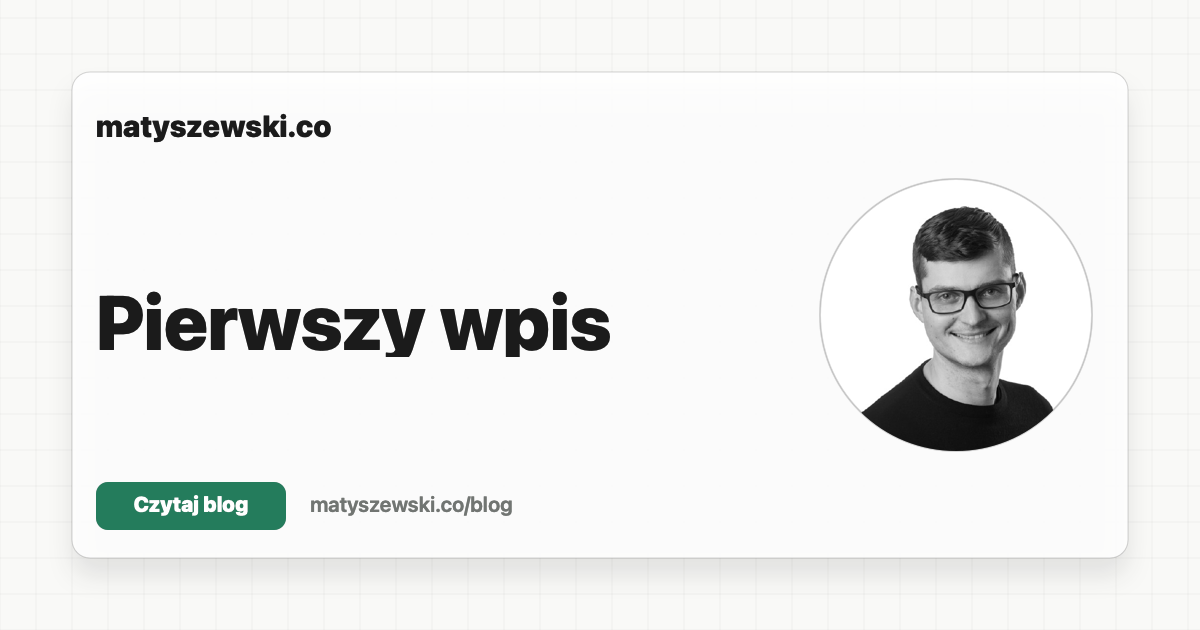
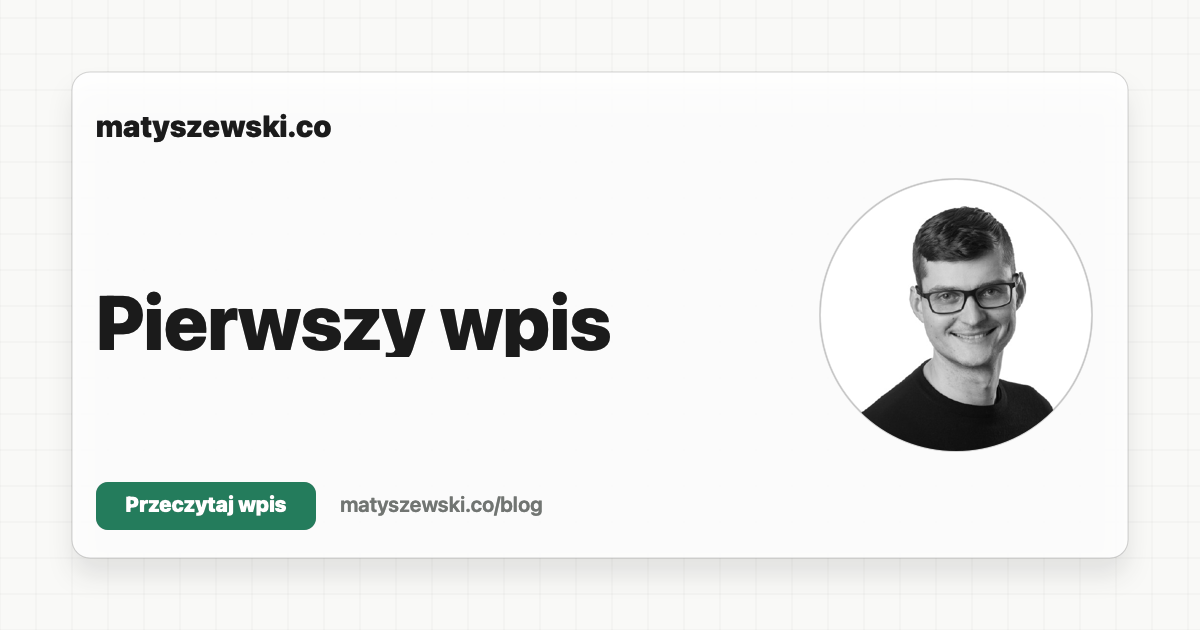
Poprawa metadanych i kart Open Graph bloga
## Nowe pliki:
- Brak.

## Zmodyfikowane:
- Generator bloga - dodano krótkie tytuły metadanych, limit 60 znaków, nazwę witryny i wyraźniejsze CTA.
- Wpis o logowaniu Codex do GitHuba - skrócono tytuły SEO/OG/X i odświeżono kartę 1200x630.
- Indeks bloga i pierwszy wpis - dodano nazwę witryny oraz odświeżono wygenerowane karty.

## Usunięte:
- Brak.

Statystyki: +0 nowych, ~9 zmodyfikowanych, -0 usuniętych

Changed region(s): [[0.0925, 0.754, 0.4625, 0.8444]]

diff --git a/scripts/generate-blog-preview.swift b/scripts/generate-blog-preview.swift
@@ -4,6 +4,7 @@ import Foundation
 struct Post: Decodable {
     let slug: String
     let title: String
+    let metaTitle: String?
     let description: String
     let date: String
     let tags: [String]?
@@ -264,7 +265,8 @@ func generateSocialCard(
     outputBaseName: String,
     footerUrl: String,
     label: String? = "BLOG",
-    showsSubtitle: Bool = true
+    showsSubtitle: Bool = true,
+    ctaText: String = "Czytaj blog"
 ) throws {
     let lines = titleLines(title)
     let fontSize = lines.count >= 3 ? 54 : (lines.count == 2 ? 68 : 76)
@@ -276,6 +278,9 @@ func generateSocialCard(
     }
     let lineSpacing = lines.count >= 3 ? 62 : 80
     let ctaTop = showsSubtitle ? 492 : 482
+    let ctaWidth = ctaText == "Czytaj blog" ? 190 : 220
+    let ctaTextX = 96 + (ctaWidth / 2)
+    let footerTextX = 96 + ctaWidth + 24
     let subtitle = showsSubtitle ? shortDescription(description) : nil
     let profileImageName = "robert-matyszewski-profile.png"
 
@@ -302,9 +307,9 @@ func generateSocialCard(
 \(label.map { ##"  <text x="96" y="236" fill="#1f6b4a" font-family="Inter, Arial, sans-serif" font-size="26" font-weight="800" letter-spacing="3">\##(escapeHtml($0))</text>"## } ?? "")
 \(svgTextLines(lines, fontSize: fontSize, top: firstTextTop, spacing: lineSpacing))
 \(subtitle.map { ##"  <text x="96" y="466" fill="#303330" font-family="Inter, Arial, sans-serif" font-size="24" font-weight="600">\##(escapeHtml($0))</text>"## } ?? "")
-  <rect x="96" y="\(ctaTop)" width="190" height="48" rx="12" fill="#1f6b4a"/>
-  <text x="191" y="\(ctaTop + 31)" fill="#ffffff" font-family="Inter, Arial, sans-serif" font-size="21" font-weight="800" text-anchor="middle">Czytaj blog</text>
-  <text x="310" y="\(ctaTop + 31)" fill="#5e625f" font-family="Inter, Arial, sans-serif" font-size="21" font-weight="600">\(escapeHtml(footerUrl))</text>
+  <rect x="96" y="\(ctaTop)" width="\(ctaWidth)" height="48" rx="12" fill="#1f6b4a"/>
+  <text x="\(ctaTextX)" y="\(ctaTop + 31)" fill="#ffffff" font-family="Inter, Arial, sans-serif" font-size="21" font-weight="800" text-anchor="middle">\(escapeHtml(ctaText))</text>
+  <text x="\(footerTextX)" y="\(ctaTop + 31)" fill="#5e625f" font-family="Inter, Arial, sans-serif" font-size="21" font-weight="600">\(escapeHtml(footerUrl))</text>
 </svg>
 """
 
@@ -318,6 +323,8 @@ func generateSocialCard(
         firstTextTop: CGFloat(firstTextTop),
         lineSpacing: CGFloat(lineSpacing),
         ctaTop: CGFloat(ctaTop),
+        ctaText: ctaText,
+        ctaWidth: CGFloat(ctaWidth),
         profileImage: socialDir.appendingPathComponent(profileImageName),
         output: socialDir.appendingPathComponent("\(outputBaseName).png")
     )
@@ -341,6 +348,8 @@ func renderPngCard(
     firstTextTop: CGFloat,
     lineSpacing: CGFloat,
     ctaTop: CGFloat,
+    ctaText: String,
+    ctaWidth: CGFloat,
     profileImage: URL,
     output: URL
 ) throws {
@@ -462,14 +471,14 @@ func renderPngCard(
     }
 
     let cta = NSBezierPath(
-        roundedRect: NSRect(x: 96, y: topY(ctaTop, 48), width: 190, height: 48),
+        roundedRect: NSRect(x: 96, y: topY(ctaTop, 48), width: ctaWidth, height: 48),
         xRadius: 12,
         yRadius: 12
     )
     color(0x1f6b4a).setFill()
     cta.fill()
-    drawText("Czytaj blog", x: 96, top: ctaTop + 10, w: 190, h: 28, size: 21, weight: .heavy, fill: color(0xffffff), alignment: .center)
-    drawText(footerUrl, x: 310, top: ctaTop + 10, w: 470, h: 28, size: 21, weight: .semibold, fill: color(0x5e625f))
+    drawText(ctaText, x: 96, top: ctaTop + 10, w: ctaWidth, h: 28, size: 21, weight: .heavy, fill: color(0xffffff), alignment: .center)
+    drawText(footerUrl, x: 96 + ctaWidth + 24, top: ctaTop + 10, w: 470, h: 28, size: 21, weight: .semibold, fill: color(0x5e625f))
 
     NSGraphicsContext.restoreGraphicsState()
 
@@ -490,6 +499,15 @@ func renderTags(_ tags: [String]?) -> String {
             \(tags.map { "<li>\(escapeHtml($0))</li>" }.joined(separator: "\n            "))
           </ul>
 """
+}
+
+func metadataTitle(for post: Post) -> String {
+    if let metaTitle = post.metaTitle {
+        return metaTitle
+    }
+
+    let brandedTitle = "\(post.title) - Blog Roberta Matyszewskiego"
+    return brandedTitle.count <= 60 ? brandedTitle : post.title
 }
 
 func syncNavigation() throws {
@@ -524,7 +542,7 @@ func renderPostPage(post: Post, markdown: String) throws {
     let postDir = root.appendingPathComponent("blog/\(post.slug)", isDirectory: true)
     try FileManager.default.createDirectory(at: postDir, withIntermediateDirectories: true)
 
-    let title = "\(post.title) - Blog Roberta Matyszewskiego"
+    let metaTitle = metadataTitle(for: post)
     let postUrl = "\(siteOrigin)/blog/\(post.slug)/"
     let imageUrl = "\(siteOrigin)/blog/assets/social/\(post.slug).png"
     let contentHtml = markdownToHtml(markdown, resourcePrefix: "../")
@@ -534,11 +552,12 @@ func renderPostPage(post: Post, markdown: String) throws {
   <head>
     <meta charset="utf-8">
     <meta name="viewport" content="width=device-width, initial-scale=1">
-    <title>\(escapeHtml(title))</title>
-    <meta name="title" content="\(escapeHtml(title))">
+    <title>\(escapeHtml(metaTitle))</title>
+    <meta name="title" content="\(escapeHtml(metaTitle))">
     <meta name="description" content="\(escapeHtml(post.description))">
-    <meta property="og:title" content="\(escapeHtml(title))">
+    <meta property="og:title" content="\(escapeHtml(metaTitle))">
     <meta property="og:description" content="\(escapeHtml(post.description))">
+    <meta property="og:site_name" content="Robert Matyszewski">
     <meta property="og:type" content="article">
     <meta property="og:url" content="\(postUrl)">
     <meta property="og:image" content="\(imageUrl)">
@@ -546,7 +565,7 @@ func renderPostPage(post: Post, markdown: String) throws {
     <meta property="og:image:height" content="630">
     <meta property="og:image:alt" content="\(escapeHtml(post.title))">
     <meta name="twitter:card" content="summary_large_image">
-    <meta name="twitter:title" content="\(escapeHtml(title))">
+    <meta name="twitter:title" content="\(escapeHtml(metaTitle))">
     <meta name="twitter:description" content="\(escapeHtml(post.description))">
     <meta name="twitter:image" content="\(imageUrl)">
     <meta name="twitter:image:alt" content="\(escapeHtml(post.title))">
@@ -604,12 +623,13 @@ try generateSocialCard(title: blogTitle, description: blogDescription, outputBas
 for post in posts {
     let markdown = try String(contentsOf: postsDir.appendingPathComponent(post.file), encoding: .utf8)
     try generateSocialCard(
-        title: post.title,
+        title: post.metaTitle ?? post.title,
         description: post.description,
         outputBaseName: post.slug,
         footerUrl: "matyszewski.co/blog",
         label: nil,
-        showsSubtitle: false
+        showsSubtitle: false,
+        ctaText: "Przeczytaj wpis"
     )
     try renderPostPage(post: post, markdown: markdown)
 }

diff --git a/blog/jak-zalogowac-codex-do-github/index.html b/blog/jak-zalogowac-codex-do-github/index.html
@@ -3,11 +3,12 @@
   <head>
     <meta charset="utf-8">
     <meta name="viewport" content="width=device-width, initial-scale=1">
-    <title>Jak zalogować się Githubem w Codexie i pobrać swój projekt - Blog Roberta Matyszewskiego</title>
-    <meta name="title" content="Jak zalogować się Githubem w Codexie i pobrać swój projekt - Blog Roberta Matyszewskiego">
+    <title>Jak zalogować Codex do GitHuba i pobrać projekt</title>
+    <meta name="title" content="Jak zalogować Codex do GitHuba i pobrać projekt">
     <meta name="description" content="Krótka instrukcja logowania Codex do GitHuba przez GitHub CLI, z kodem urządzenia i autoryzacją.">
-    <meta property="og:title" content="Jak zalogować się Githubem w Codexie i pobrać swój projekt - Blog Roberta Matyszewskiego">
+    <meta property="og:title" content="Jak zalogować Codex do GitHuba i pobrać projekt">
     <meta property="og:description" content="Krótka instrukcja logowania Codex do GitHuba przez GitHub CLI, z kodem urządzenia i autoryzacją.">
+    <meta property="og:site_name" content="Robert Matyszewski">
     <meta property="og:type" content="article">
     <meta property="og:url" content="https://matyszewski.co/blog/jak-zalogowac-codex-do-github/">
     <meta property="og:image" content="https://matyszewski.co/blog/assets/social/jak-zalogowac-codex-do-github.png">
@@ -15,7 +16,7 @@
     <meta property="og:image:height" content="630">
     <meta property="og:image:alt" content="Jak zalogować się Githubem w Codexie i pobrać swój projekt">
     <meta name="twitter:card" content="summary_large_image">
-    <meta name="twitter:title" content="Jak zalogować się Githubem w Codexie i pobrać swój projekt - Blog Roberta Matyszewskiego">
+    <meta name="twitter:title" content="Jak zalogować Codex do GitHuba i pobrać projekt">
     <meta name="twitter:description" content="Krótka instrukcja logowania Codex do GitHuba przez GitHub CLI, z kodem urządzenia i autoryzacją.">
     <meta name="twitter:image" content="https://matyszewski.co/blog/assets/social/jak-zalogowac-codex-do-github.png">
     <meta name="twitter:image:alt" content="Jak zalogować się Githubem w Codexie i pobrać swój projekt">

diff --git a/blog/pierwszy-wpis/index.html b/blog/pierwszy-wpis/index.html
@@ -8,6 +8,7 @@
     <meta name="description" content="Krótka notatka startowa o tym, co będzie trafiało na blog.">
     <meta property="og:title" content="Pierwszy wpis - Blog Roberta Matyszewskiego">
     <meta property="og:description" content="Krótka notatka startowa o tym, co będzie trafiało na blog.">
+    <meta property="og:site_name" content="Robert Matyszewski">
     <meta property="og:type" content="article">
     <meta property="og:url" content="https://matyszewski.co/blog/pierwszy-wpis/">
     <meta property="og:image" content="https://matyszewski.co/blog/assets/social/pierwszy-wpis.png">

diff --git a/blog/index.html b/blog/index.html
@@ -14,6 +14,7 @@
       property="og:description"
       content="Notatki Roberta Matyszewskiego o AI, produktach, sprzedaży oprogramowania i budowaniu lokalnego ekosystemu technologicznego."
     >
+    <meta property="og:site_name" content="Robert Matyszewski">
     <meta property="og:type" content="website">
     <meta property="og:url" content="https://matyszewski.co/blog/">
     <meta property="og:image" content="https://matyszewski.co/blog/assets/social/blog-preview.png">
